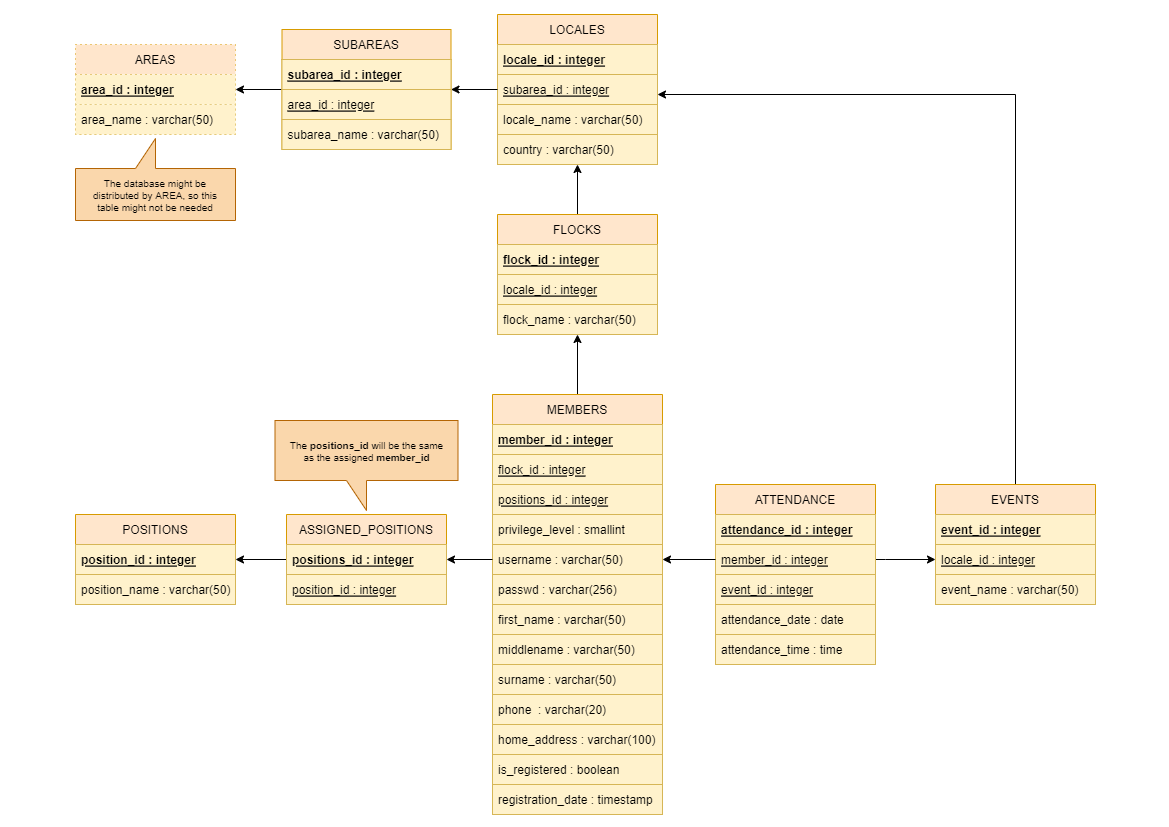
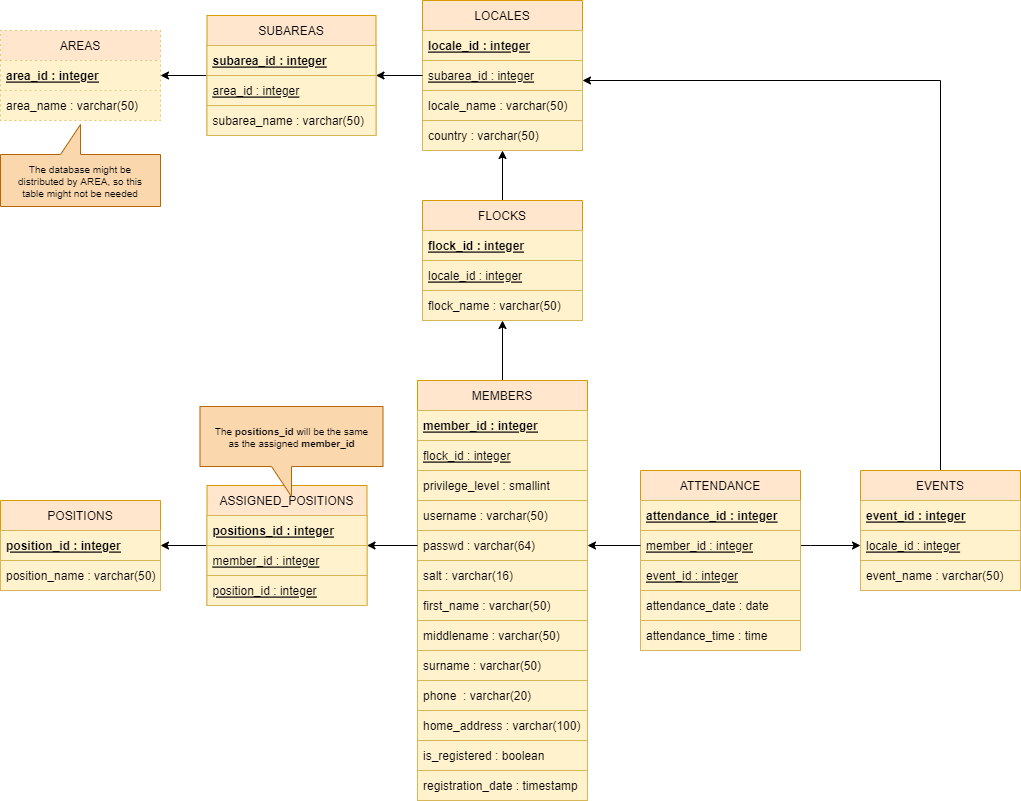
More DB updates

Changed region(s): [[0.0, 0.4682, 1.0, 1.0], [0.0, 0.0, 0.5769, 0.2809], [0.3947, 0.2497, 0.5769, 0.437]]

diff --git a/src/server/src/entities/members/members.spec.js b/src/server/src/entities/members/members.spec.js
@@ -5,7 +5,6 @@ import connection from '../../dbconnection/postgresql.js';
 /* #region Sample inputs */
 const admin = {
     flock_id: 1,
-    positions_id: 1,
     username: "richard",
     passwd: "test",
     salt:"salt",
@@ -21,24 +20,7 @@ const admin = {
 
 const new_member_1 = {
     flock_id: 1,
-    positions_id: 2,
     username: "test_1",
-    privilege_level: 0,
-    passwd: "test",
-    salt:"salt",
-    first_name: "test 1",
-    middlename: "test 1",
-    surname: "test 1",
-    phone: "123456789",
-    home_address: "address",
-    is_registered: false,
-    registration_date: "2022-07-02T17:50:00.000Z"
-}
-
-const new_member_invalid_positions_id = {
-    flock_id: 1,
-    positions_id: 2,
-    username: "test_positions_id",
     privilege_level: 0,
     passwd: "test",
     salt:"salt",
@@ -53,7 +35,6 @@ const new_member_invalid_positions_id = {
 
 const new_member_2 = {
     flock_id: 1,
-    positions_id: 3,
     privilege_level: 0,
     username: "test_2",
     passwd: "test",
@@ -66,7 +47,6 @@ const new_member_2 = {
 
 const new_member_2_updated = {
     flock_id: 1,
-    positions_id: 3,
     privilege_level: 0,
     username: "test_2",
     passwd: "test",
@@ -79,7 +59,6 @@ const new_member_2_updated = {
 
 const new_member_3_invalid_privilage = {
     flock_id: 1,
-    positions_id: 4,
     privilege_level: 7,
     username: "test_3",
     passwd: "test",
@@ -118,11 +97,6 @@ describe('POST /members', () => {
     test('should accept empty non mandatory fields', async () => {
         let response = await request(app).post('/members').send(new_member_2);
         expect(response.statusCode).toBe(201);
-    });
-
-    test('should not accept duplicate positions id', async () => {
-        let response = await request(app).post('/members').send(new_member_invalid_positions_id);
-        expect(response.statusCode).toBe(400);
     });
 
     test('should not accept invalid privilage level', async () => {
@@ -181,7 +155,6 @@ describe('PATCH /members/:username', () => {
 
 describe('DELETE /members/:username', () => {
     test('should delete user by username', async () => {
-        await request(app).delete('/members/test_positions_id').send();
         await request(app).delete('/members/test_3').send();
 
         let response = await request(app).delete('/members/test_1').send();

diff --git a/src/server/src/entities/members/members.model.js b/src/server/src/entities/members/members.model.js
@@ -14,10 +14,6 @@ Member.init(
             type: DataTypes.INTEGER,
             allowNull : false
         },
-        positions_id : {
-            type: DataTypes.INTEGER,
-            allowNull : false
-        },
         username : {
             type: DataTypes.STRING,
             allowNull : false,
